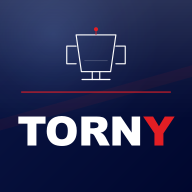
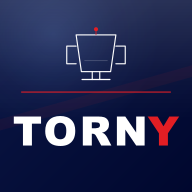
style(wordmark): aplicar letter-spacing al TornyWordmark del header de la app

Changed region(s): [[0.4688, 0.5938, 0.9375, 0.7812], [0.0625, 0.5938, 0.4375, 0.7812]]

diff --git a/src/app/components/TornyWordmark.tsx b/src/app/components/TornyWordmark.tsx
@@ -122,14 +122,16 @@ export function TornyWordmark({
             />
           )}
 
-          {/* Wordmark TORN + Y roja */}
+          {/* Wordmark TORN + Y roja. letterSpacing positivo (2) en
+              vez del -1 anterior — con kerning negativo la "r" y la
+              "n" se mezclaban visualmente en el header de la app. */}
           <text
             x={variant === 'full' ? 218 : 145}
             y="58"
             fontFamily="'Arial Black','Impact','Haettenschweiler',sans-serif"
             fontWeight={900}
             fontSize="52"
-            letterSpacing="-1"
+            letterSpacing="2"
             textAnchor="middle"
             fill="currentColor"
           >